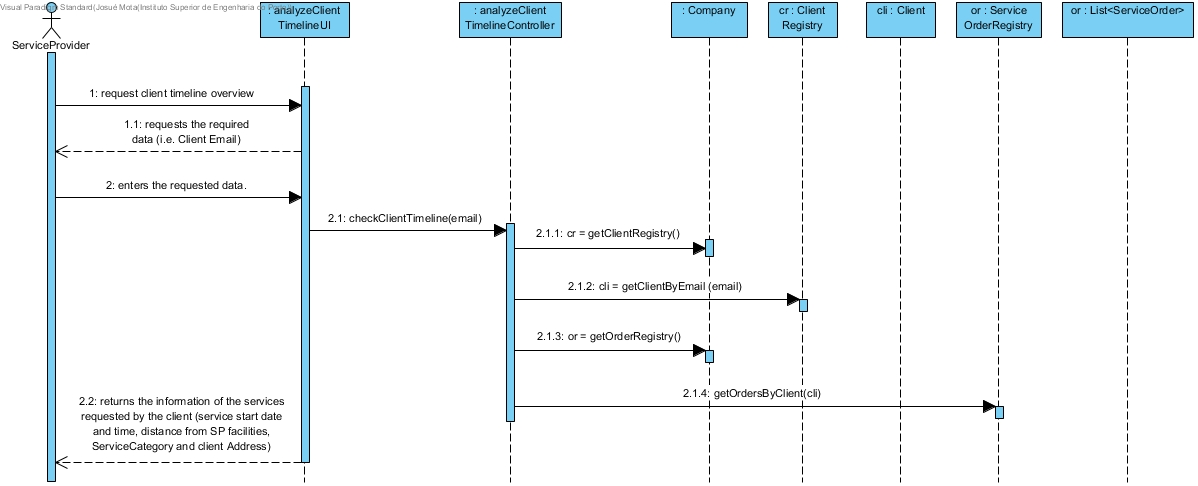
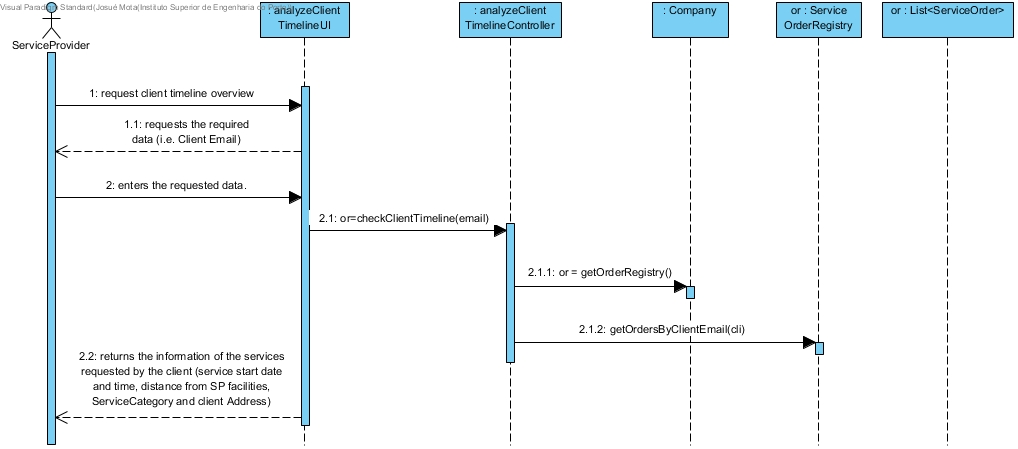
[UC-18] [Documentation] Commit introduce changes to CD in the design plus minor fixes

Changed region(s): [[0.0, 0.0, 1.0, 0.9978], [0.7308, 0.7483, 0.8527, 0.8731], [0.7308, 0.8107, 0.7613, 0.8419]]

diff --git a/UseCases.md b/UseCases.md
@@ -18,9 +18,9 @@
 | UC10  | [Assign Service Requests to Service Providers](UseCases/UC10_AssignServiceRequests.md)          |
 | UC11  | [Accept Service Request Assignments](UseCases/UC11_AcceptServiceRequestAssignments.md)          |
 | UC12  | [Preview Service Orders in Main Application](UseCases/UC12_PreviewServiceOrdersMainApp.md)      |
-| UC13  | [Complete Service](UseCases/UC13_CompleteService.md)                                             |
-| UC14  | [Rating Service Provider](UseCases/UC14_RatingSP.md)                                                          |
-| UC15  | [Evaluate Service Provider](UseCases/UC15_EvaluateSP.md)                                                      |
-| UC16  | [Import Execution Orders](UseCases/UC16_ImportExecutionOrders.md)                               |
-| UC17  | [Analyze Execution Orders](UseCases/UC17_AnalyzeExecutionOrders.md)                             |
+| UC13  | [Complete Service](UseCases/UC13_CompleteService.md)                                            |
+| UC14  | [Rating Service Provider](UseCases/UC14_RatingSP.md)                                            |
+| UC15  | [Evaluate Service Provider](UseCases/UC15_EvaluateSP.md)                                        |
+| UC16  | [Import Service Orders](UseCases/UC16_ImportServiceOrders.md)                                   |
+| UC17  | [Analyze Service Orders](UseCases/UC17_AnalyzeServiceOrders.md)                                 |
 | UC18  | [Analyze Client Timeline](UseCases/UC18_AnalyzeClientTimeline.md)                               |

diff --git a/OODesign.md b/OODesign.md
@@ -17,6 +17,6 @@
 | UC13  | [CompleteService](Design/UC13_CompleteService.md)                                             |
 | UC14  | [Rating SP](Design/UC14_RatingSP.md)                                                          |
 | UC15  | [Evaluate SP](Design/UC15_EvaluateSP.md)                                                      |
-| UC16  | [Import Execution Orders](Design/UC16_ImportExecutionOrders.md)                               |
-| UC17  | [Analyze Execution Orders](Design/UC17_AnalyzeExecutionOrders.md)                             |
+| UC16  | [Import Service Orders](Design/UC16_ImportServiceOrders.md)                                   |
+| UC17  | [Analyze Service Orders](Design/UC17_AnalyzeServiceOrders.md)                                 |
 | UC18  | [Analyze Client Timeline](Design/UC18_AnalyzeClientTimeline.md)                               |
